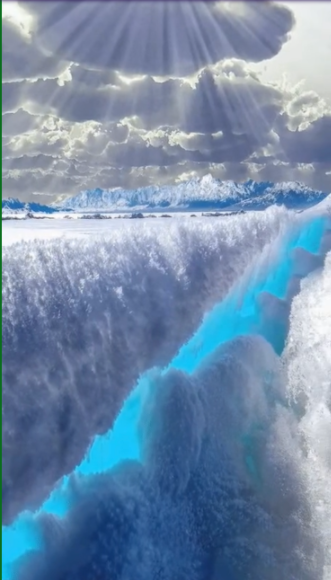
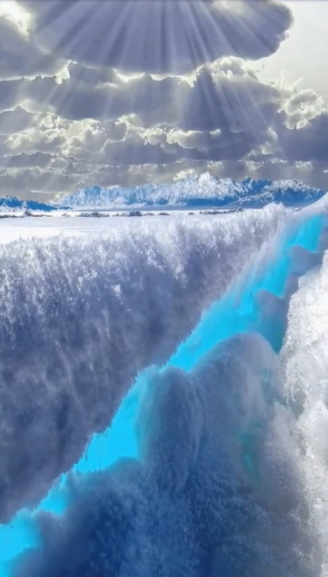
.

diff --git a/images/2021.html b/images/2021.html
@@ -140,6 +140,8 @@
 
 <img src="../i/20210709.png">
 
+<img src="../i/20210709_01.png">
+
 <h2>20210708</h2>
 
 <img src="../i/20210708.png">
